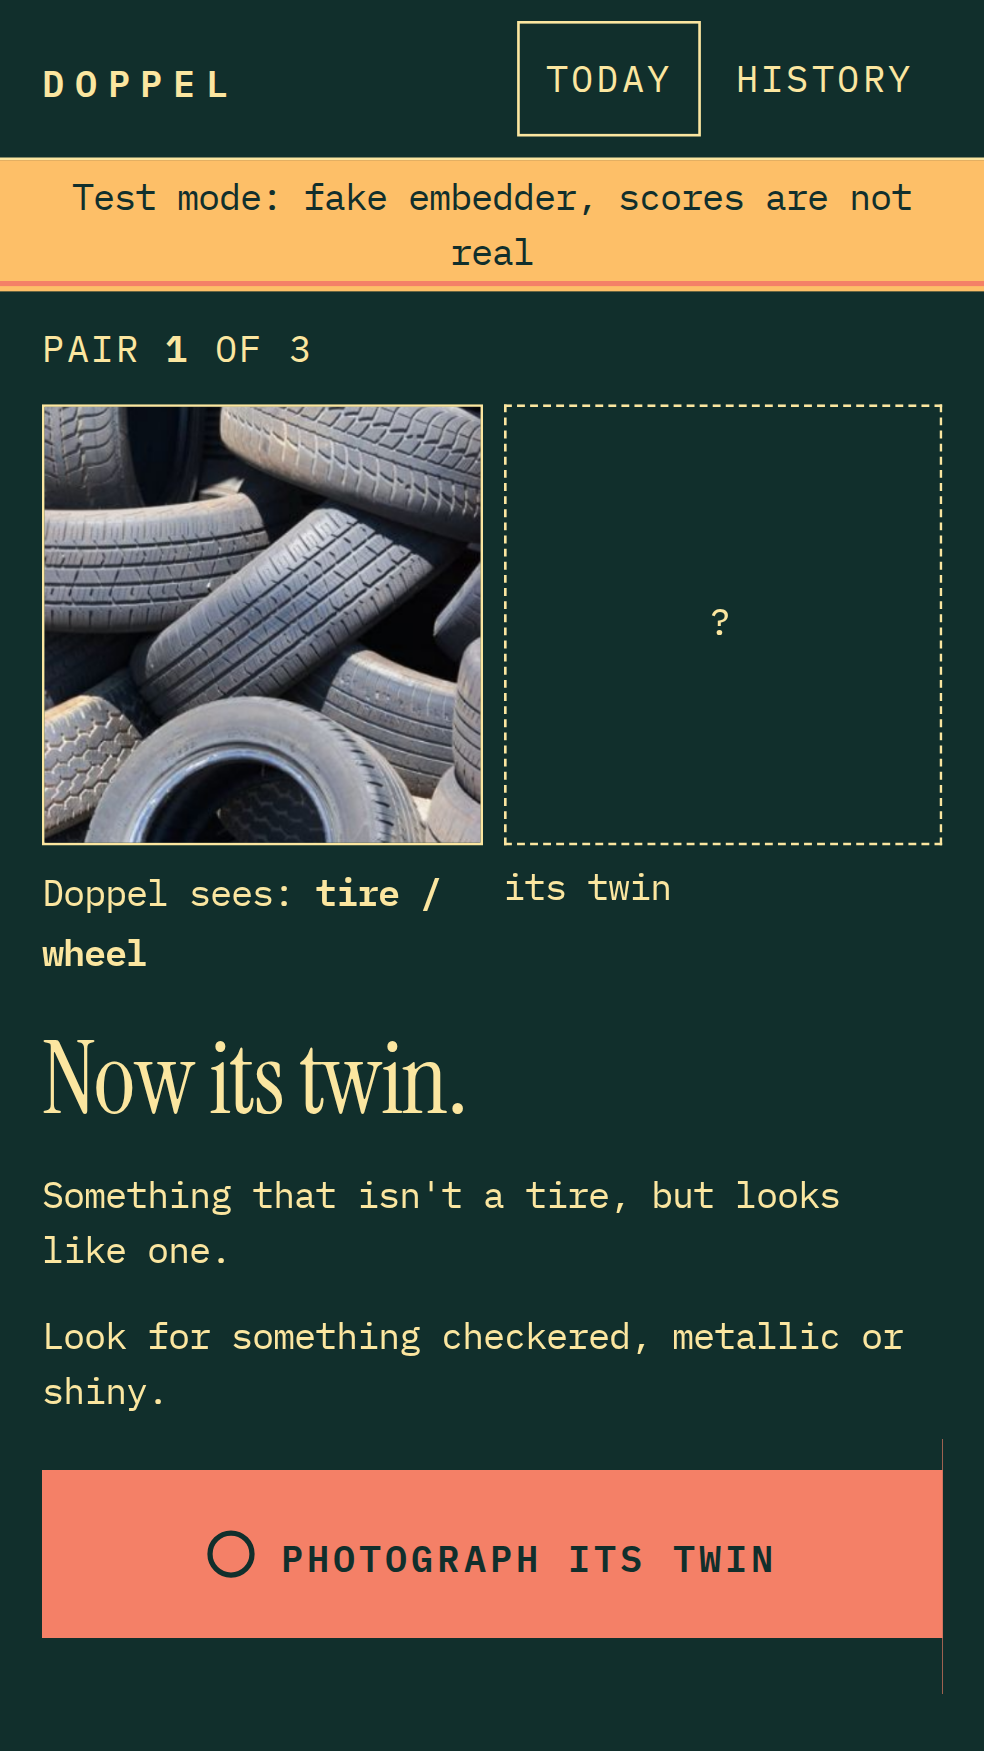
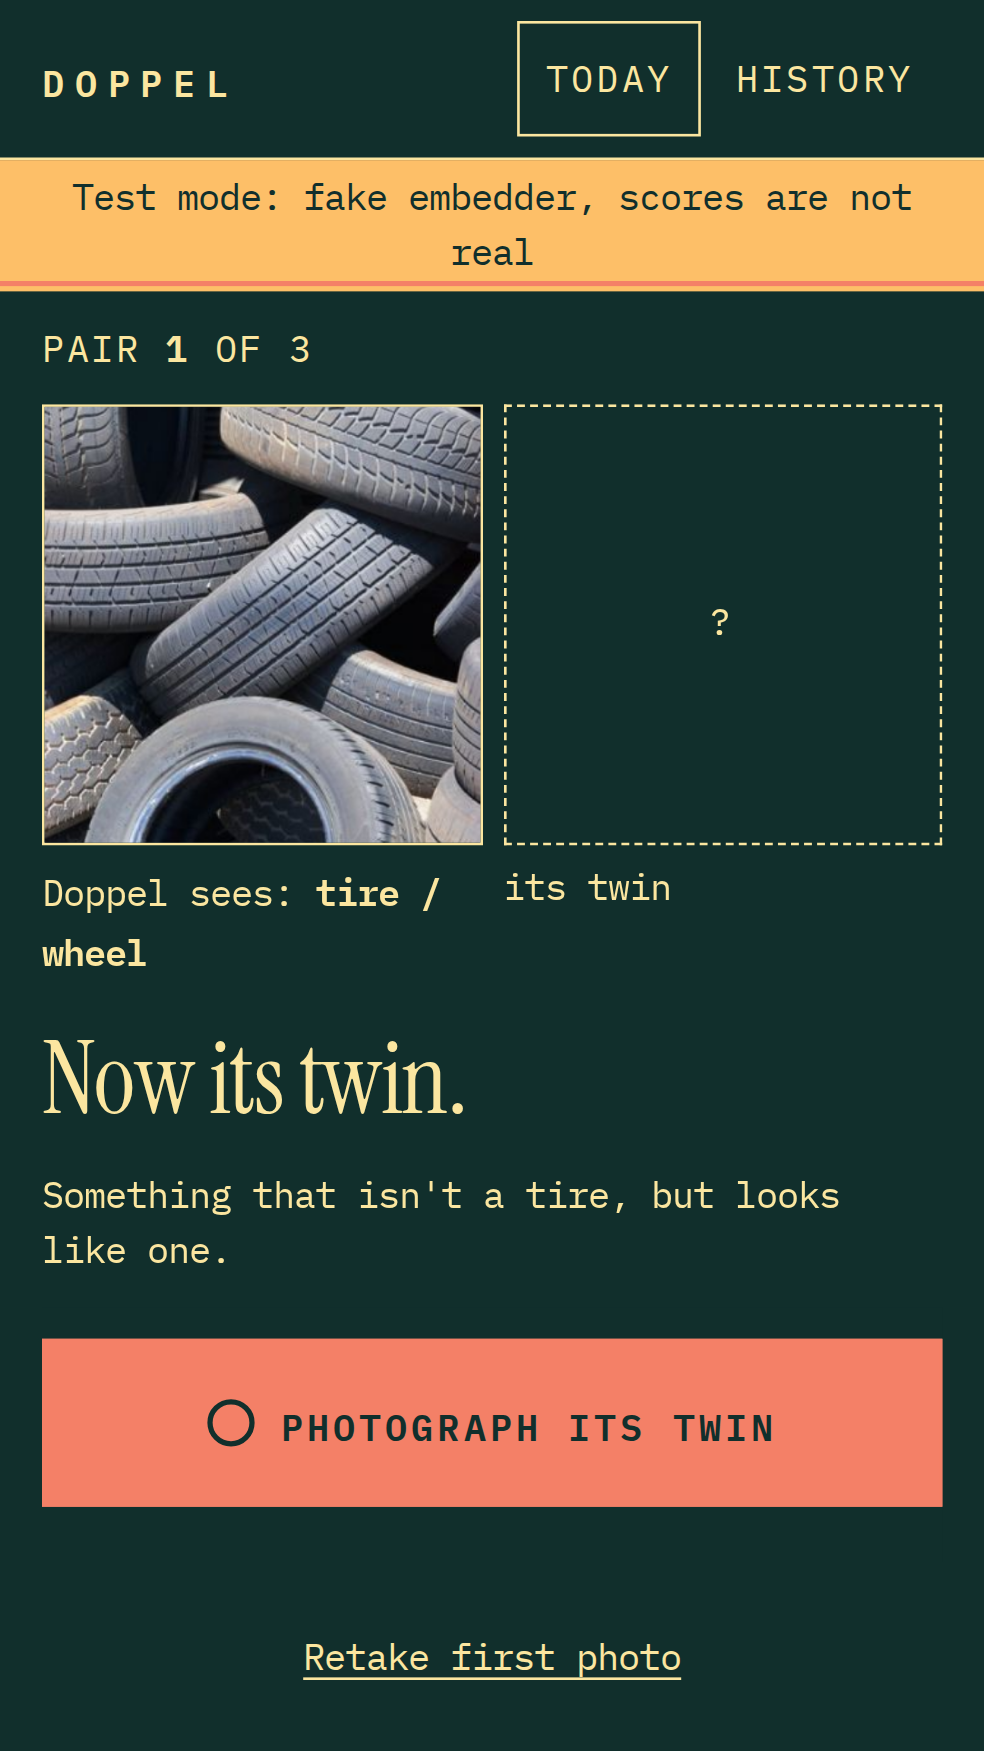
G4: retake the first photo before the twin, nothing spent

Changed region(s): [[0.0305, 0.7401, 0.9756, 0.956]]

diff --git a/web/src/main.ts b/web/src/main.ts
@@ -4,7 +4,7 @@ import "@fontsource/instrument-serif/latin-400.css";
 import "./wada.css";
 import "./style.css";
 import { prepareImage } from "./capture";
-import { acceptFirst, acceptTwin, activeWalk, bestPair, canRetry, closeReveal, retrying, startRetry, donePairs, metersWalked, newDay, phase, updateWalk, type DayState, type Phase } from "./day";
+import { acceptFirst, acceptTwin, activeWalk, bestPair, canRetry, closeReveal, retakeFirst, retrying, startRetry, donePairs, metersWalked, newDay, phase, updateWalk, type DayState, type Phase } from "./day";
 import { clearAll, getDay, getMeta, getShot, listDays, newId, putDay, putShot, setMeta, type StoredShot } from "./db";
 import { getEmbedder, isFakeEmbedder, onModelProgress } from "./embed";
 import { fakePhotoVector } from "./embed/fake";
@@ -156,7 +156,14 @@ async function showToday(seq: number, force = false) {
   const now = Date.now();
   const p = phase(day, now);
   if (!force && shownKey(p) === shown) {
-    if (p.kind === "walking") {
+    const wireRetake = () =>
+    app.querySelector("#retake")?.addEventListener("click", async () => {
+      stopGps();
+      day = retakeFirst(day!, Date.now());
+      await save();
+      void showToday(seq, true);
+    });
+  if (p.kind === "walking") {
       const c = app.querySelector(".countdown");
       if (c) c.innerHTML = walkReadout(p.walk);
       const bar = app.querySelector<HTMLElement>(".walkbar");
@@ -186,15 +193,24 @@ async function showToday(seq: number, force = false) {
     }
     return mountDebug(app);
   }
+  const wireRetake = () =>
+    app.querySelector("#retake")?.addEventListener("click", async () => {
+      stopGps();
+      day = retakeFirst(day!, Date.now());
+      await save();
+      void showToday(seq, true);
+    });
   if (p.kind === "walking") {
     render(app, walkView(p.pair, pr.first!.label, p.walk, pr.first!.looks ?? [], pr.first!.alt, pr.first!.tries ?? [], retrying(pr)));
     startGps();
+    wireRetake();
     return void photoInto(app.querySelector("#photo-a"), pr.first!.id);
   }
   if (p.kind === "twin") {
     render(app, twinView(p.pair, pr.first!.label, pr.first!.looks ?? [], pr.first!.alt, pr.first!.tries ?? [], retrying(pr)));
     startGps(); // keep counting metres until the twin is in
     void photoInto(app.querySelector("#photo-a"), pr.first!.id);
+    wireRetake();
     return wireShoot(seq, "twin");
   }
   if (p.kind === "reveal") {

diff --git a/web/tests/e2e/retake.spec.ts b/web/tests/e2e/retake.spec.ts
@@ -1,0 +1,33 @@
+import { expect, test, type Page } from "@playwright/test";
+import { expectAccessible, fixture } from "./helpers";
+
+async function shoot(page: Page, rel: string) {
+  await expect(page.locator("#photo")).toBeEnabled();
+  await page.locator("#photo").setInputFiles(fixture(rel));
+}
+
+test("Retake first photo from the walk and the twin screen, then finish the pair", async ({ page }) => {
+  await page.clock.install({ time: new Date("2026-10-11T15:00:00-04:00") });
+  await page.goto("/?embedder=fake#/");
+  await shoot(page, "twins/05-pinecone.jpg");
+  await expect(page.getByRole("region", { name: "Walk" })).toBeVisible();
+  await expectAccessible(page, "walk with retake");
+  await page.getByRole("button", { name: "Retake first photo" }).click();
+  await expect(page.getByRole("region", { name: "First photo" })).toBeVisible();
+  await expect(page.getByTestId("pair-n")).toHaveText("1"); // nothing spent
+
+  await shoot(page, "twins/05-artichoke.jpg");
+  await expect(page.getByRole("region", { name: "Walk" })).toBeVisible();
+  await page.clock.fastForward(46_000);
+  await expect(page.getByRole("region", { name: "Twin photo" })).toBeVisible();
+  await page.getByRole("button", { name: "Retake first photo" }).click();
+  await expect(page.getByRole("region", { name: "First photo" })).toBeVisible();
+
+  await shoot(page, "twins/04-moss.jpg");
+  await expect(page.getByTestId("sees")).toHaveText(/^moss/);
+  await page.clock.fastForward(46_000);
+  await shoot(page, "twins/04-broccoli.jpg");
+  await expect(page.getByRole("region", { name: "Reveal" })).toBeVisible();
+  await expect(page.getByTestId("labels")).toContainText("moss");
+  await expect(page.getByRole("button", { name: "Retake first photo" })).toHaveCount(0); // hidden once the twin is taken
+});

diff --git a/web/tests/unit/day.test.ts b/web/tests/unit/day.test.ts
@@ -237,3 +237,23 @@ describe("two tries per twin (G3)", () => {
     expect(metersWalked(d)).toBe(60);
   });
 });
+
+describe("retake the first photo (G4)", () => {
+  it("returns to the first shot from the walk or the twin step, spending nothing", async () => {
+    const { retakeFirst } = await import("../../src/day");
+    let d = acceptFirst(newDay("2026-10-11"), shot("a", T0), T0);
+    d = retakeFirst(d, T0 + 5000);
+    expect(phase(d, T0 + 5000)).toEqual({ kind: "first", pair: 1 });
+    expect(d.pairs).toHaveLength(1);
+    d = acceptFirst(d, shot("a2", T0 + 6000), T0 + 6000);
+    expect(phase(d, T0 + 52_000).kind).toBe("twin");
+    d = retakeFirst(d, T0 + 52_000);
+    expect(phase(d, T0 + 52_000).kind).toBe("first");
+  });
+  it("is not possible once a twin is taken", async () => {
+    const { retakeFirst } = await import("../../src/day");
+    let d = acceptFirst(newDay("2026-10-11"), shot("a", T0), T0);
+    d = acceptTwin(d, shot("b", T0 + 50_000), result(60), T0 + 50_000);
+    expect(() => retakeFirst(d, T0 + 51_000)).toThrow();
+  });
+});

diff --git a/web/src/ui/screens.ts b/web/src/ui/screens.ts
@@ -129,6 +129,7 @@ export function walkView(pair: number, label: string, w: WalkStatus, looks: stri
       <p class="sub">${esc(notButLike(label))} Phone in your pocket until then.</p>
       ${lookFor(looks)}
       ${tryThese(tries)}
+      ${again ? "" : `<p><button class="link" id="retake" type="button">Retake first photo</button></p>`}
       <div class="walkbar" role="progressbar" aria-label="Walk" aria-valuemin="0" aria-valuemax="100" aria-valuenow="${walkPct(w)}"><div style="width:${walkPct(w)}%"></div></div>
     </section>`;
 }
@@ -155,7 +156,7 @@ export function twinView(pair: number, label: string, looks: string[] = [], alt?
       <p class="sub">${esc(notButLike(label))}</p>
       ${lookFor(looks)}
       ${tryThese(tries)}
-      ${dock(shootButton("Photograph its twin"))}
+      ${dock(shootButton("Photograph its twin"), again ? "" : `<button class="link" id="retake" type="button">Retake first photo</button>`)}
     </section>`;
 }
 

diff --git a/web/src/day.ts b/web/src/day.ts
@@ -97,6 +97,14 @@ export function acceptTwin(d: DayState, shot: ShotRef, result: PairResult, now: 
   return withCurrent(d, { ...p, tries: 2, lastTry: { twin: shot, result }, ...(better ? { twin: shot, result } : {}) });
 }
 
+/** "Retake first photo" (G4): back to the first shot, nothing spent. Only before any twin is taken. */
+export const canRetake = (p: PairState) => !!p.first && !p.twin;
+export function retakeFirst(d: DayState, now: number): DayState {
+  expect(d, now, ["walking", "twin"]);
+  if (!canRetake(current(d))) throw new Error("the twin is already taken");
+  return withCurrent(d, {});
+}
+
 /** "Try another twin" (G3): once per pair, after its reveal; needs another walk. */
 export function startRetry(d: DayState, now: number): DayState {
   expect(d, now, ["reveal"]);
